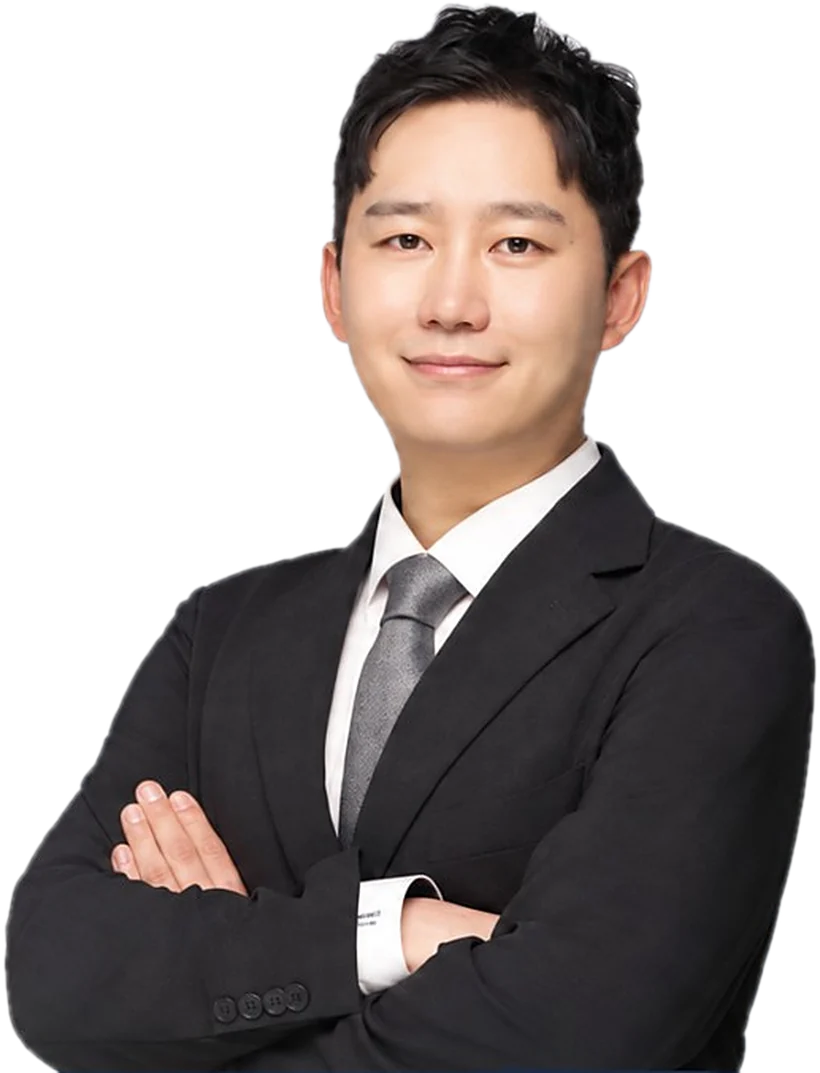
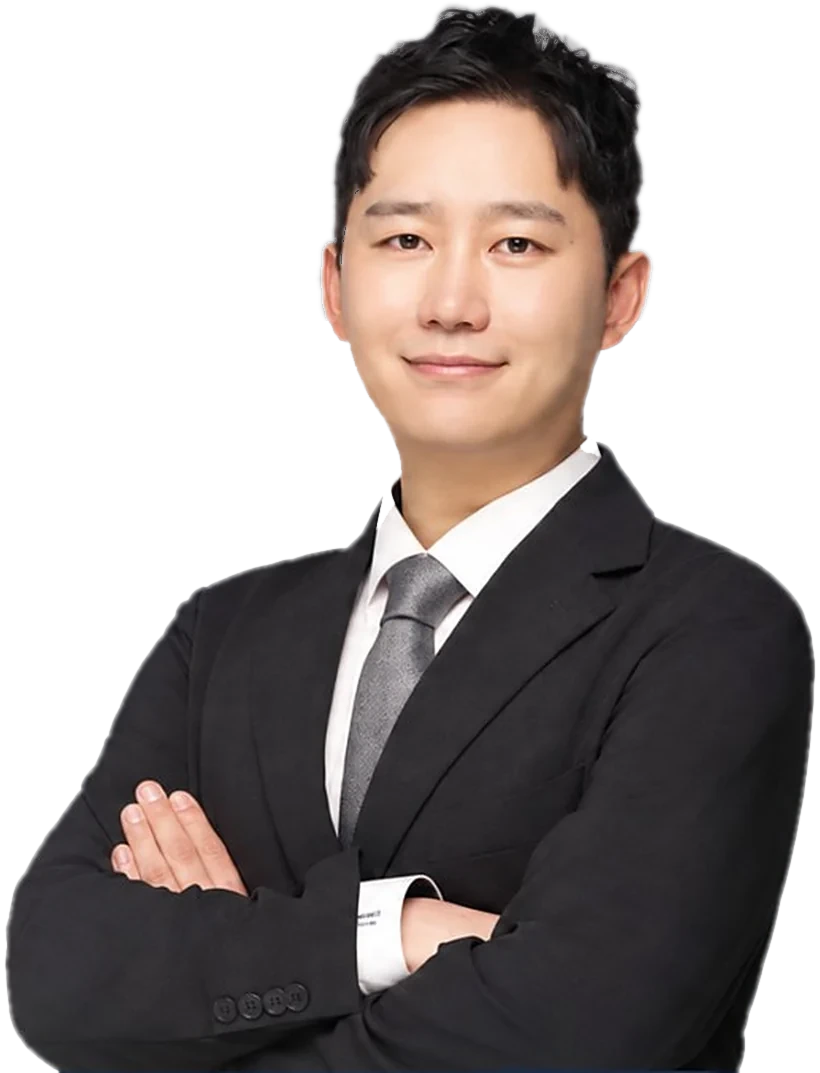
메인 사진 가장자리 정리, CSS·JS·사진 캐시 갱신용 버전 표시

diff --git a/column/temporary-two-houses-2-years/index.html b/column/temporary-two-houses-2-years/index.html
@@ -14,7 +14,7 @@
   <meta name="theme-color" content="#0F1B33">
   <link rel="preconnect" href="https://cdn.jsdelivr.net">
   <link rel="stylesheet" href="https://cdn.jsdelivr.net/gh/orioncactus/pretendard@v1.3.9/dist/web/variable/pretendardvariable-dynamic-subset.min.css">
-  <link rel="stylesheet" href="/assets/site.css">
+  <link rel="stylesheet" href="/assets/site.css?v=20261021b">
   <script type="application/ld+json">[{"@context": "https://schema.org", "@type": "Article", "headline": "조정대상지역 갈아타기, 종전 집 처분기한 2년? 3년? (2026.10.1 시행)", "description": "2026년 10월 1일부터 조정대상지역 내 일시적 2주택 처분기한이 2년으로 줄었습니다. 8월 3일·8월 26일 기준일, 경우별 예시, 현재 조정대상지역까지 정리했습니다.", "datePublished": "2026-10-21", "dateModified": "2026-10-21", "image": "https://www.edentax.kr/column/temporary-two-houses-2-years/thumbnail.png", "author": {"@type": "Person", "name": "정재욱 세무사", "jobTitle": "세무사", "description": "국세청 출신 세무사"}, "publisher": {"@type": "Organization", "name": "에덴택스", "url": "https://www.edentax.kr"}, "mainEntityOfPage": "https://www.edentax.kr/column/temporary-two-houses-2-years/"}, {"@context": "https://schema.org", "@type": "FAQPage", "mainEntity": [{"@type": "Question", "name": "2026년 7월에 계약금을 내고 10월에 잔금을 치르면 처분기한은 몇 년인가요?", "acceptedAnswer": {"@type": "Answer", "text": "2026년 8월 3일 이전에 매매계약을 하고 계약금을 낸 사실이 증명서류로 확인되면 종전 규정에 따라 3년이 적용됩니다."}}, {"@type": "Question", "name": "새 집이 조정대상지역이 아니면 어떻게 되나요?", "acceptedAnswer": {"@type": "Answer", "text": "2년 규정은 종전 집과 새 집이 모두 조정대상지역에 있는 경우에만 적용되므로, 그 밖의 경우는 3년입니다."}}, {"@type": "Question", "name": "취득세도 같은 날짜 기준인가요?", "acceptedAnswer": {"@type": "Answer", "text": "아닙니다. 취득세는 2026년 8월 26일 이전에 매매계약(분양계약 포함)을 하고 계약금을 지급했다면 종전 규정을 따릅니다."}}]}]</script>
 </head>
 <body data-nav="column">
@@ -97,7 +97,7 @@
     <span class="col-cat col-cat-dark" data-anim="up">양도소득세</span>
     <h1 data-anim="up" data-delay="1">조정대상지역 갈아타기, 종전 집 처분기한 2년? 3년? (2026.10.1 시행)</h1>
     <div class="article-meta" data-anim="up" data-delay="2">
-      <img src="/images/person.webp" alt="" width="44" height="44">
+      <img src="/images/person.webp?v=20261021b" alt="" width="44" height="44">
       <span><strong>국세청 출신 정재욱 세무사</strong><small><time datetime="2026-10-21">2026.10.21</time> · 2026년 10월 기준</small></span>
     </div>
   </div>
@@ -204,7 +204,7 @@
     </article>
     <aside class="article-side">
       <div class="author-card">
-        <div class="author-photo"><img src="/images/person.webp" alt="정재욱 세무사" loading="lazy" width="820" height="1073"></div>
+        <div class="author-photo"><img src="/images/person.webp?v=20261021b" alt="정재욱 세무사" loading="lazy" width="820" height="1073"></div>
         <p class="author-badge"><svg class="ic ic-sm"><use href="#i-badge-check"/></svg>국세청 출신 세무사</p>
         <p class="author-name">정재욱 세무사</p>
         <p class="author-desc">양도·상속·증여 등 재산세 전문 세무사</p>
@@ -273,7 +273,7 @@
   <button type="button" class="q-top" id="toTop" aria-label="맨 위로"><svg class="ic"><use href="#i-arrow-up"/></svg></button>
 </div>
 
-<script src="/assets/site.js" defer></script>
+<script src="/assets/site.js?v=20261021b" defer></script>
 <!-- /LAYOUT:FOOTER -->
 </body>
 </html>

diff --git a/index.html b/index.html
@@ -13,7 +13,7 @@
   <meta name="theme-color" content="#0F1B33">
   <link rel="preconnect" href="https://cdn.jsdelivr.net">
   <link rel="stylesheet" href="https://cdn.jsdelivr.net/gh/orioncactus/pretendard@v1.3.9/dist/web/variable/pretendardvariable-dynamic-subset.min.css">
-  <link rel="stylesheet" href="/assets/site.css">
+  <link rel="stylesheet" href="/assets/site.css?v=20261021b">
   <script type="application/ld+json">{"@context":"https://schema.org","@type":"AccountingService","name":"에덴택스","url":"https://www.edentax.kr/","telephone":"+82-10-4892-0921","email":"admin@edentax.kr","faxNumber":"0504-338-1208","address":{"@type":"PostalAddress","streetAddress":"테헤란로 151, 1202호","addressLocality":"강남구","addressRegion":"서울특별시","addressCountry":"KR"},"areaServed":"KR","knowsAbout":["양도소득세","상속세","증여세","종합소득세","법인세"]}</script>
 </head>
 <body data-nav="home">
@@ -116,7 +116,7 @@
 
       <div class="hero-visual" data-anim="fade" data-delay="2">
         <div class="ring ring-1" aria-hidden="true"></div>
-        <div class="hero-frame"><img src="/images/person.webp" alt="에덴택스 정재욱 세무사" width="820" height="1073"></div>
+        <div class="hero-frame"><img src="/images/person.webp?v=20261021b" alt="에덴택스 정재욱 세무사" width="820" height="1073"></div>
         <div class="chip chip-1"><span class="chip-ic"><svg class="ic"><use href="#i-landmark"/></svg></span><div><small>전원</small><strong>국세청 출신 세무사</strong></div></div>
         <div class="chip chip-2"><span class="chip-ic"><svg class="ic"><use href="#i-house"/></svg></span><div><small>재산세 전문</small><strong>양도 · 상속 · 증여</strong></div></div>
         <div class="chip chip-3"><span class="chip-ic"><svg class="ic"><use href="#i-map-pin"/></svg></span><div><small>찾아오시는 길</small><strong>역삼역 5번 출구 인근</strong></div></div>
@@ -201,7 +201,7 @@
     <div class="wrap profile-grid">
       <div class="profile-photo" data-anim="left">
         <div class="photo-frame">
-          <img src="images/person.webp" alt="정재욱 세무사" loading="lazy" width="820" height="1073">
+          <img src="images/person.webp?v=20261021b" alt="정재욱 세무사" loading="lazy" width="820" height="1073">
         </div>
         <div class="photo-badge"><svg class="ic"><use href="#i-badge-check"/></svg>국세청 출신 세무사</div>
       </div>
@@ -368,7 +368,7 @@
   <button type="button" class="q-top" id="toTop" aria-label="맨 위로"><svg class="ic"><use href="#i-arrow-up"/></svg></button>
 </div>
 
-<script src="/assets/site.js" defer></script>
+<script src="/assets/site.js?v=20261021b" defer></script>
 <!-- /LAYOUT:FOOTER -->
 </body>
 </html>

diff --git a/about.html b/about.html
@@ -13,7 +13,7 @@
   <meta name="theme-color" content="#0F1B33">
   <link rel="preconnect" href="https://cdn.jsdelivr.net">
   <link rel="stylesheet" href="https://cdn.jsdelivr.net/gh/orioncactus/pretendard@v1.3.9/dist/web/variable/pretendardvariable-dynamic-subset.min.css">
-  <link rel="stylesheet" href="/assets/site.css">
+  <link rel="stylesheet" href="/assets/site.css?v=20261021b">
 </head>
 <body data-nav="about">
 <!-- LAYOUT:HEADER -->
@@ -125,7 +125,7 @@
 <section class="sec profile">
   <div class="wrap profile-grid">
     <div class="profile-photo" data-anim="left">
-      <div class="photo-frame"><img src="/images/person.webp" alt="정재욱 세무사" loading="lazy" width="820" height="1073"></div>
+      <div class="photo-frame"><img src="/images/person.webp?v=20261021b" alt="정재욱 세무사" loading="lazy" width="820" height="1073"></div>
       <div class="photo-badge"><svg class="ic"><use href="#i-badge-check"/></svg>국세청 출신 세무사</div>
     </div>
     <div class="profile-body">
@@ -198,7 +198,7 @@
   <button type="button" class="q-top" id="toTop" aria-label="맨 위로"><svg class="ic"><use href="#i-arrow-up"/></svg></button>
 </div>
 
-<script src="/assets/site.js" defer></script>
+<script src="/assets/site.js?v=20261021b" defer></script>
 <!-- /LAYOUT:FOOTER -->
 </body>
 </html>

diff --git a/location.html b/location.html
@@ -13,7 +13,7 @@
   <meta name="theme-color" content="#0F1B33">
   <link rel="preconnect" href="https://cdn.jsdelivr.net">
   <link rel="stylesheet" href="https://cdn.jsdelivr.net/gh/orioncactus/pretendard@v1.3.9/dist/web/variable/pretendardvariable-dynamic-subset.min.css">
-  <link rel="stylesheet" href="/assets/site.css">
+  <link rel="stylesheet" href="/assets/site.css?v=20261021b">
 </head>
 <body data-nav="location">
 <!-- LAYOUT:HEADER -->
@@ -183,7 +183,7 @@
   <button type="button" class="q-top" id="toTop" aria-label="맨 위로"><svg class="ic"><use href="#i-arrow-up"/></svg></button>
 </div>
 
-<script src="/assets/site.js" defer></script>
+<script src="/assets/site.js?v=20261021b" defer></script>
 <!-- /LAYOUT:FOOTER -->
 </body>
 </html>

diff --git a/services.html b/services.html
@@ -13,7 +13,7 @@
   <meta name="theme-color" content="#0F1B33">
   <link rel="preconnect" href="https://cdn.jsdelivr.net">
   <link rel="stylesheet" href="https://cdn.jsdelivr.net/gh/orioncactus/pretendard@v1.3.9/dist/web/variable/pretendardvariable-dynamic-subset.min.css">
-  <link rel="stylesheet" href="/assets/site.css">
+  <link rel="stylesheet" href="/assets/site.css?v=20261021b">
 </head>
 <body data-nav="services">
 <!-- LAYOUT:HEADER -->
@@ -212,7 +212,7 @@
   <button type="button" class="q-top" id="toTop" aria-label="맨 위로"><svg class="ic"><use href="#i-arrow-up"/></svg></button>
 </div>
 
-<script src="/assets/site.js" defer></script>
+<script src="/assets/site.js?v=20261021b" defer></script>
 <!-- /LAYOUT:FOOTER -->
 </body>
 </html>

diff --git a/column/index.html b/column/index.html
@@ -13,7 +13,7 @@
   <meta name="theme-color" content="#0F1B33">
   <link rel="preconnect" href="https://cdn.jsdelivr.net">
   <link rel="stylesheet" href="https://cdn.jsdelivr.net/gh/orioncactus/pretendard@v1.3.9/dist/web/variable/pretendardvariable-dynamic-subset.min.css">
-  <link rel="stylesheet" href="/assets/site.css">
+  <link rel="stylesheet" href="/assets/site.css?v=20261021b">
 </head>
 <body data-nav="column">
 <!-- LAYOUT:HEADER -->
@@ -179,7 +179,7 @@
   <button type="button" class="q-top" id="toTop" aria-label="맨 위로"><svg class="ic"><use href="#i-arrow-up"/></svg></button>
 </div>
 
-<script src="/assets/site.js" defer></script>
+<script src="/assets/site.js?v=20261021b" defer></script>
 <!-- /LAYOUT:FOOTER -->
 </body>
 </html>

diff --git a/capital-gains-tax.html b/capital-gains-tax.html
@@ -13,7 +13,7 @@
   <meta name="theme-color" content="#0F1B33">
   <link rel="preconnect" href="https://cdn.jsdelivr.net">
   <link rel="stylesheet" href="https://cdn.jsdelivr.net/gh/orioncactus/pretendard@v1.3.9/dist/web/variable/pretendardvariable-dynamic-subset.min.css">
-  <link rel="stylesheet" href="/assets/site.css">
+  <link rel="stylesheet" href="/assets/site.css?v=20261021b">
 </head>
 <body data-nav="tax">
 <!-- LAYOUT:HEADER -->
@@ -196,7 +196,7 @@
   <button type="button" class="q-top" id="toTop" aria-label="맨 위로"><svg class="ic"><use href="#i-arrow-up"/></svg></button>
 </div>
 
-<script src="/assets/site.js" defer></script>
+<script src="/assets/site.js?v=20261021b" defer></script>
 <!-- /LAYOUT:FOOTER -->
 </body>
 </html>

diff --git a/corporate-tax.html b/corporate-tax.html
@@ -13,7 +13,7 @@
   <meta name="theme-color" content="#0F1B33">
   <link rel="preconnect" href="https://cdn.jsdelivr.net">
   <link rel="stylesheet" href="https://cdn.jsdelivr.net/gh/orioncactus/pretendard@v1.3.9/dist/web/variable/pretendardvariable-dynamic-subset.min.css">
-  <link rel="stylesheet" href="/assets/site.css">
+  <link rel="stylesheet" href="/assets/site.css?v=20261021b">
 </head>
 <body data-nav="tax">
 <!-- LAYOUT:HEADER -->
@@ -195,7 +195,7 @@
   <button type="button" class="q-top" id="toTop" aria-label="맨 위로"><svg class="ic"><use href="#i-arrow-up"/></svg></button>
 </div>
 
-<script src="/assets/site.js" defer></script>
+<script src="/assets/site.js?v=20261021b" defer></script>
 <!-- /LAYOUT:FOOTER -->
 </body>
 </html>

diff --git a/gift-tax.html b/gift-tax.html
@@ -13,7 +13,7 @@
   <meta name="theme-color" content="#0F1B33">
   <link rel="preconnect" href="https://cdn.jsdelivr.net">
   <link rel="stylesheet" href="https://cdn.jsdelivr.net/gh/orioncactus/pretendard@v1.3.9/dist/web/variable/pretendardvariable-dynamic-subset.min.css">
-  <link rel="stylesheet" href="/assets/site.css">
+  <link rel="stylesheet" href="/assets/site.css?v=20261021b">
 </head>
 <body data-nav="tax">
 <!-- LAYOUT:HEADER -->
@@ -195,7 +195,7 @@
   <button type="button" class="q-top" id="toTop" aria-label="맨 위로"><svg class="ic"><use href="#i-arrow-up"/></svg></button>
 </div>
 
-<script src="/assets/site.js" defer></script>
+<script src="/assets/site.js?v=20261021b" defer></script>
 <!-- /LAYOUT:FOOTER -->
 </body>
 </html>

diff --git a/income-tax.html b/income-tax.html
@@ -13,7 +13,7 @@
   <meta name="theme-color" content="#0F1B33">
   <link rel="preconnect" href="https://cdn.jsdelivr.net">
   <link rel="stylesheet" href="https://cdn.jsdelivr.net/gh/orioncactus/pretendard@v1.3.9/dist/web/variable/pretendardvariable-dynamic-subset.min.css">
-  <link rel="stylesheet" href="/assets/site.css">
+  <link rel="stylesheet" href="/assets/site.css?v=20261021b">
 </head>
 <body data-nav="tax">
 <!-- LAYOUT:HEADER -->
@@ -190,7 +190,7 @@
   <button type="button" class="q-top" id="toTop" aria-label="맨 위로"><svg class="ic"><use href="#i-arrow-up"/></svg></button>
 </div>
 
-<script src="/assets/site.js" defer></script>
+<script src="/assets/site.js?v=20261021b" defer></script>
 <!-- /LAYOUT:FOOTER -->
 </body>
 </html>

diff --git a/inheritance-tax.html b/inheritance-tax.html
@@ -13,7 +13,7 @@
   <meta name="theme-color" content="#0F1B33">
   <link rel="preconnect" href="https://cdn.jsdelivr.net">
   <link rel="stylesheet" href="https://cdn.jsdelivr.net/gh/orioncactus/pretendard@v1.3.9/dist/web/variable/pretendardvariable-dynamic-subset.min.css">
-  <link rel="stylesheet" href="/assets/site.css">
+  <link rel="stylesheet" href="/assets/site.css?v=20261021b">
 </head>
 <body data-nav="tax">
 <!-- LAYOUT:HEADER -->
@@ -195,7 +195,7 @@
   <button type="button" class="q-top" id="toTop" aria-label="맨 위로"><svg class="ic"><use href="#i-arrow-up"/></svg></button>
 </div>
 
-<script src="/assets/site.js" defer></script>
+<script src="/assets/site.js?v=20261021b" defer></script>
 <!-- /LAYOUT:FOOTER -->
 </body>
 </html>
